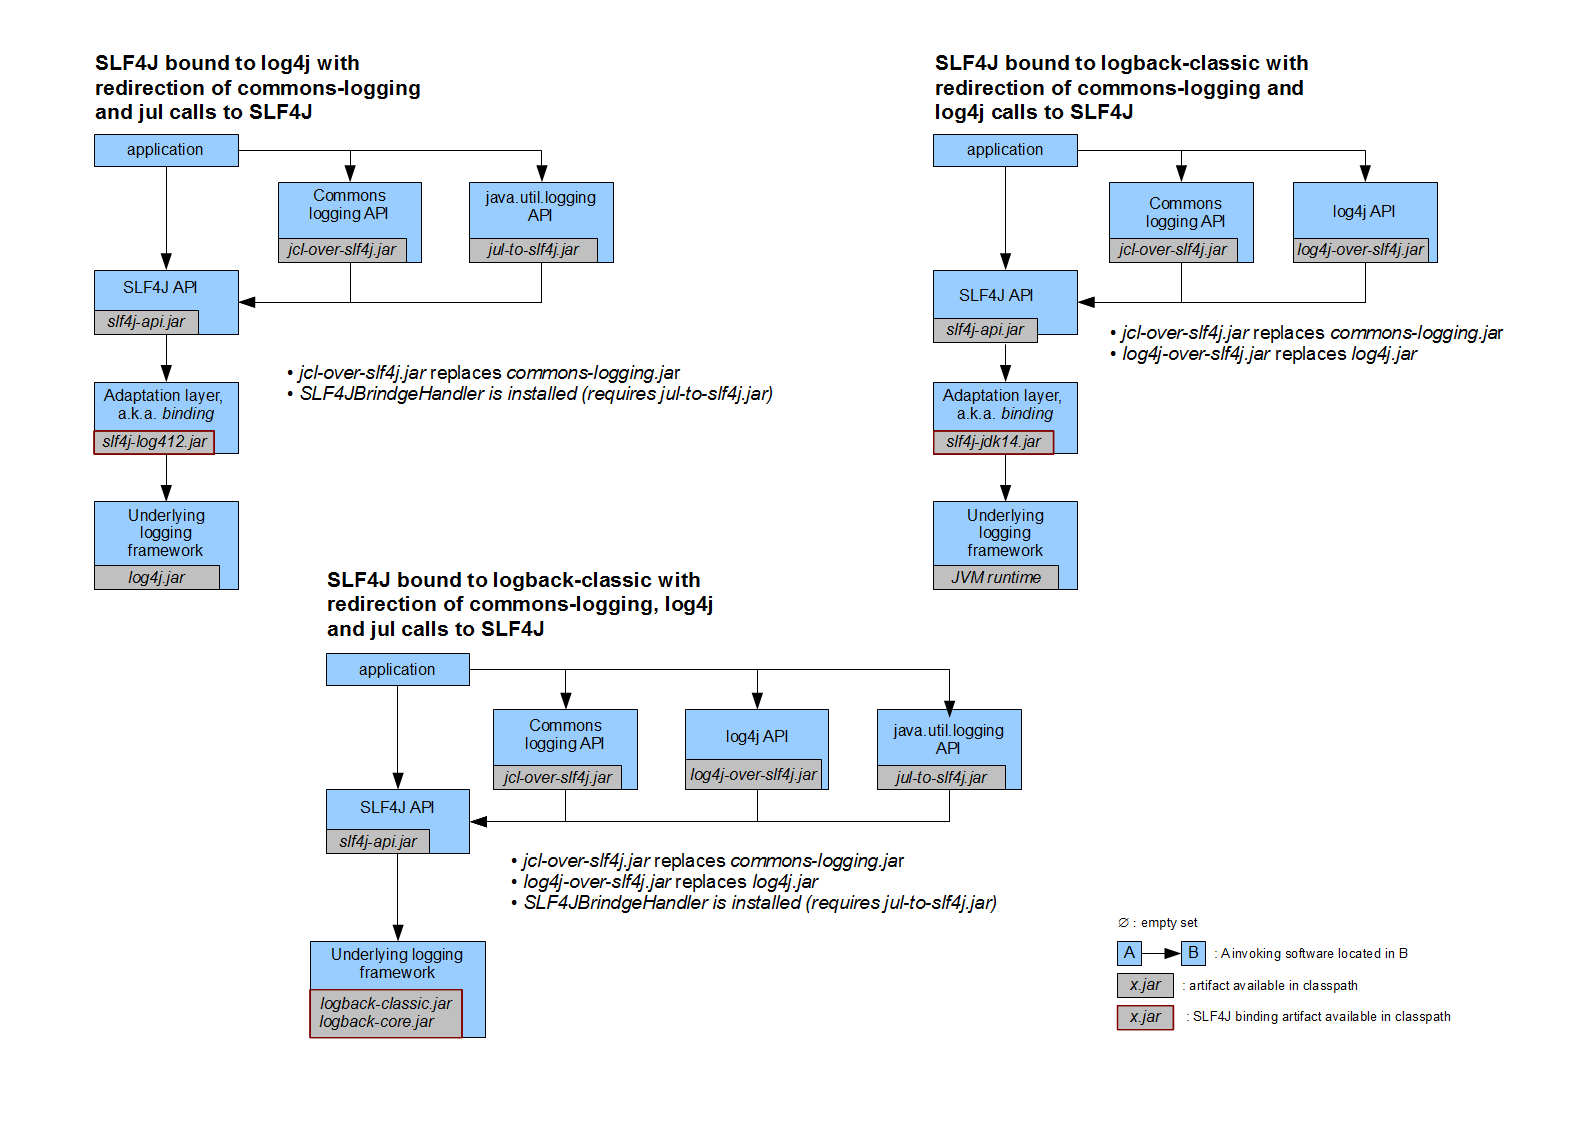
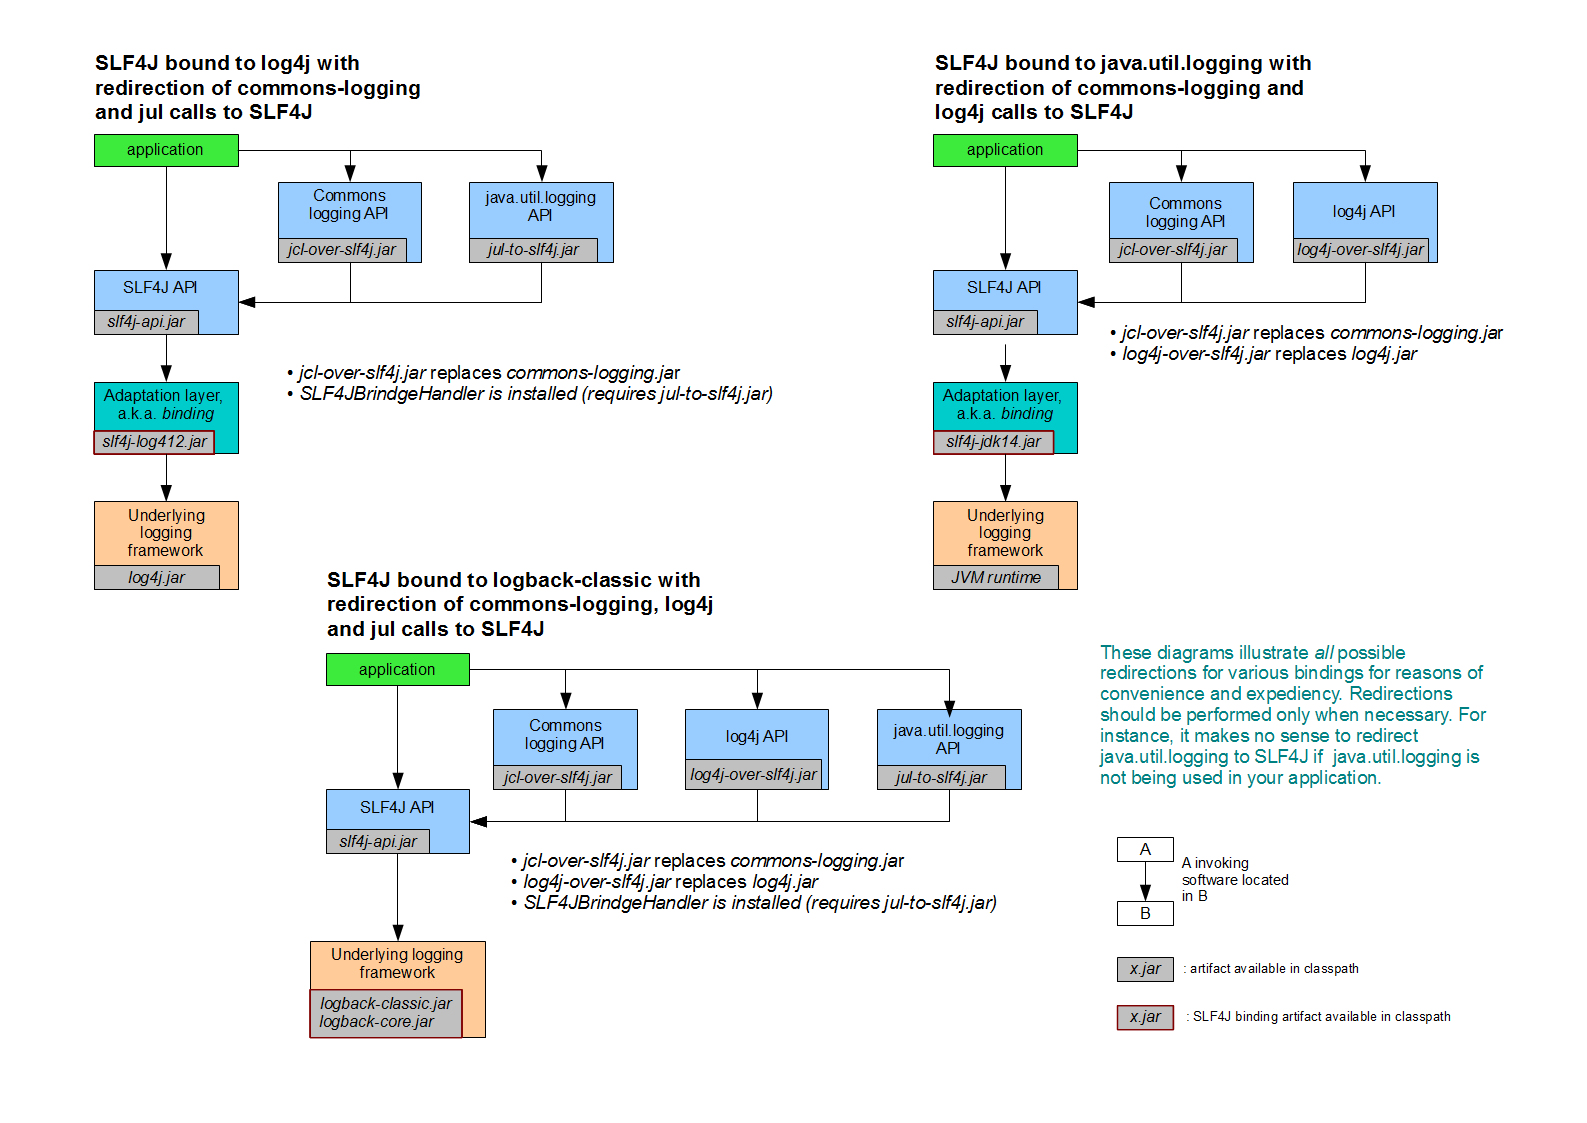
updated diagram for legacy/bridging

diff --git a/modules/slf4j/slf4j-site/src/site/pages/legacy.html b/modules/slf4j/slf4j-site/src/site/pages/legacy.html
@@ -39,8 +39,8 @@
     <p></p>
     
     
-    <p><a href="images/bridging.png">
-    <img src="images/bridging.png" alt="click to enlarge" width="800"/>
+    <p><a href="images/legacy.png">
+    <img src="images/legacy.png" alt="click to enlarge" width="800"/>
     </a></p>
     
     <p>
